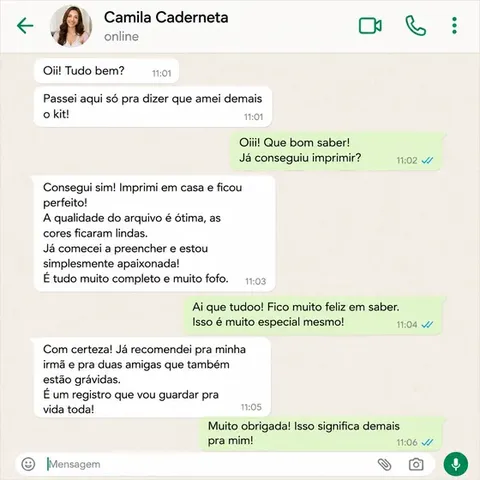
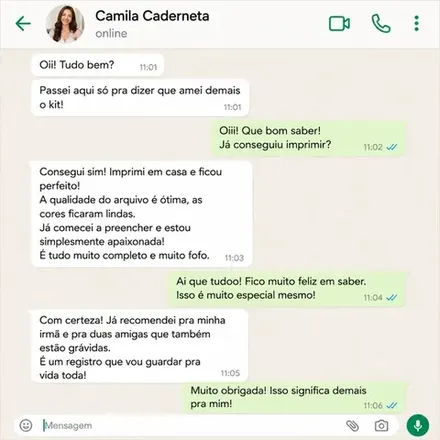
Ataca a causa raiz do CLS (0.185) e aperta mais as imagens
- CLS: a fonte usava display=swap desde a primeira versão -- eu só
  tinha corrigido o CARREGAMENTO (bloqueante -> assíncrono), nunca o
  swap em si, por isso o CLS ficou EXATAMENTE igual (0.185) nos dois
  relatórios. Troquei pra display=optional: se a fonte não estiver
  pronta bem rápido, o navegador não troca depois (elimina o reflow
  do H1/parágrafo do hero quando a Fraunces carrega).
- Aperta o restante das imagens sinalizadas (esteira 450x675->380x570,
  bônus 220x220->160x160, depoimentos 480x480->440x440), fechando os
  142 KiB que ainda sobravam.
- Corrige o badge do cronômetro na barra de urgência: o fundo branco
  translúcido clareava o terracota por baixo e derrubava o contraste
  pra 3.74:1 -- troquei pra um overlay escuro (7.6:1).

diff --git a/index.html b/index.html
@@ -8,9 +8,9 @@
 <meta name="description" content="Caderneta para imprimir e acompanhar a gravidez, o pré-natal e o pós-parto. 77 páginas, acesso imediato, com bônus grátis.">
 <link rel="preconnect" href="https://fonts.googleapis.com">
 <link rel="preconnect" href="https://fonts.gstatic.com" crossorigin>
-<link rel="preload" as="style" href="https://fonts.googleapis.com/css2?family=Fraunces:ital,opsz,wght@0,9..144,400;0,9..144,560;0,9..144,650;1,9..144,500&family=Inter:wght@400;500;600;700;800;900&display=swap">
-<link rel="stylesheet" href="https://fonts.googleapis.com/css2?family=Fraunces:ital,opsz,wght@0,9..144,400;0,9..144,560;0,9..144,650;1,9..144,500&family=Inter:wght@400;500;600;700;800;900&display=swap" media="print" onload="this.media='all'">
-<noscript><link rel="stylesheet" href="https://fonts.googleapis.com/css2?family=Fraunces:ital,opsz,wght@0,9..144,400;0,9..144,560;0,9..144,650;1,9..144,500&family=Inter:wght@400;500;600;700;800;900&display=swap"></noscript>
+<link rel="preload" as="style" href="https://fonts.googleapis.com/css2?family=Fraunces:ital,opsz,wght@0,9..144,400;0,9..144,560;0,9..144,650;1,9..144,500&family=Inter:wght@400;500;600;700;800;900&display=optional">
+<link rel="stylesheet" href="https://fonts.googleapis.com/css2?family=Fraunces:ital,opsz,wght@0,9..144,400;0,9..144,560;0,9..144,650;1,9..144,500&family=Inter:wght@400;500;600;700;800;900&display=optional" media="print" onload="this.media='all'">
+<noscript><link rel="stylesheet" href="https://fonts.googleapis.com/css2?family=Fraunces:ital,opsz,wght@0,9..144,400;0,9..144,560;0,9..144,650;1,9..144,500&family=Inter:wght@400;500;600;700;800;900&display=optional"></noscript>
 <style>
 
 /* ---------- Tokens ---------- */
@@ -103,7 +103,7 @@ button{font-family:inherit;cursor:pointer;}
 }
 .urgency .timer{
   font-variant-numeric:tabular-nums;
-  background:rgba(255,255,255,.18);
+  background:rgba(0,0,0,.22);
   padding:2px 8px;
   border-radius:6px;
   letter-spacing:.03em;
@@ -629,22 +629,22 @@ footer .credit{margin-top:14px;font-size:12px;color:var(--ink-soft);}
 
   <div class="esteira">
     <div class="esteira-track">
-      <img src="assets/preview/capa-thumb.webp" alt="Capa" width="450" height="675" loading="lazy">
-      <img src="assets/preview/calendario.webp" alt="Calendário da gestação" width="450" height="675" loading="lazy">
-      <img src="assets/preview/semana.webp" alt="Acompanhamento semana a semana" width="450" height="675" loading="lazy">
-      <img src="assets/preview/exames.webp" alt="Controle de exames" width="450" height="675" loading="lazy">
-      <img src="assets/preview/plano-parto.webp" alt="Plano de parto" width="450" height="675" loading="lazy">
-      <img src="assets/preview/mala-maternidade.webp" alt="Checklist da mala da maternidade" width="450" height="675" loading="lazy">
-      <img src="assets/preview/amamentacao.webp" alt="Controle de amamentação" width="450" height="675" loading="lazy">
-      <img src="assets/preview/cartinha.webp" alt="Mensagens para o bebê" width="450" height="675" loading="lazy">
-      <img src="assets/preview/capa-thumb.webp" alt="" aria-hidden="true" width="450" height="675" loading="lazy">
-      <img src="assets/preview/calendario.webp" alt="" aria-hidden="true" width="450" height="675" loading="lazy">
-      <img src="assets/preview/semana.webp" alt="" aria-hidden="true" width="450" height="675" loading="lazy">
-      <img src="assets/preview/exames.webp" alt="" aria-hidden="true" width="450" height="675" loading="lazy">
-      <img src="assets/preview/plano-parto.webp" alt="" aria-hidden="true" width="450" height="675" loading="lazy">
-      <img src="assets/preview/mala-maternidade.webp" alt="" aria-hidden="true" width="450" height="675" loading="lazy">
-      <img src="assets/preview/amamentacao.webp" alt="" aria-hidden="true" width="450" height="675" loading="lazy">
-      <img src="assets/preview/cartinha.webp" alt="" aria-hidden="true" width="450" height="675" loading="lazy">
+      <img src="assets/preview/capa-thumb.webp" alt="Capa" width="380" height="570" loading="lazy">
+      <img src="assets/preview/calendario.webp" alt="Calendário da gestação" width="380" height="570" loading="lazy">
+      <img src="assets/preview/semana.webp" alt="Acompanhamento semana a semana" width="380" height="570" loading="lazy">
+      <img src="assets/preview/exames.webp" alt="Controle de exames" width="380" height="570" loading="lazy">
+      <img src="assets/preview/plano-parto.webp" alt="Plano de parto" width="380" height="570" loading="lazy">
+      <img src="assets/preview/mala-maternidade.webp" alt="Checklist da mala da maternidade" width="380" height="570" loading="lazy">
+      <img src="assets/preview/amamentacao.webp" alt="Controle de amamentação" width="380" height="570" loading="lazy">
+      <img src="assets/preview/cartinha.webp" alt="Mensagens para o bebê" width="380" height="570" loading="lazy">
+      <img src="assets/preview/capa-thumb.webp" alt="" aria-hidden="true" width="380" height="570" loading="lazy">
+      <img src="assets/preview/calendario.webp" alt="" aria-hidden="true" width="380" height="570" loading="lazy">
+      <img src="assets/preview/semana.webp" alt="" aria-hidden="true" width="380" height="570" loading="lazy">
+      <img src="assets/preview/exames.webp" alt="" aria-hidden="true" width="380" height="570" loading="lazy">
+      <img src="assets/preview/plano-parto.webp" alt="" aria-hidden="true" width="380" height="570" loading="lazy">
+      <img src="assets/preview/mala-maternidade.webp" alt="" aria-hidden="true" width="380" height="570" loading="lazy">
+      <img src="assets/preview/amamentacao.webp" alt="" aria-hidden="true" width="380" height="570" loading="lazy">
+      <img src="assets/preview/cartinha.webp" alt="" aria-hidden="true" width="380" height="570" loading="lazy">
     </div>
   </div>
 
@@ -685,7 +685,7 @@ footer .credit{margin-top:14px;font-size:12px;color:var(--ink-soft);}
     </div>
 
     <div class="bonus-card reveal">
-      <img src="assets/bonus/enxoval-capa.webp" alt="Kit Completo de Enxoval do Bebê" width="220" height="220" loading="lazy">
+      <img src="assets/bonus/enxoval-capa.webp" alt="Kit Completo de Enxoval do Bebê" width="160" height="160" loading="lazy">
       <div class="txt">
         <span class="label">Bônus 01 · grátis</span>
         <strong>Kit Completo de Enxoval do Bebê (40 páginas)</strong>
@@ -693,7 +693,7 @@ footer .credit{margin-top:14px;font-size:12px;color:var(--ink-soft);}
       <div class="price"><span class="was">R$37</span><span class="now">grátis</span></div>
     </div>
     <div class="bonus-card reveal">
-      <img src="assets/bonus/diario-capa.webp" alt="Diário de Memórias do Bebê" width="220" height="220" loading="lazy">
+      <img src="assets/bonus/diario-capa.webp" alt="Diário de Memórias do Bebê" width="160" height="160" loading="lazy">
       <div class="txt">
         <span class="label">Bônus 02 · grátis</span>
         <strong>Diário de Memórias do Bebê (50 páginas)</strong>
@@ -719,43 +719,43 @@ footer .credit{margin-top:14px;font-size:12px;color:var(--ink-soft);}
   <div class="testi-esteira">
     <div class="testi-esteira-track">
       <div class="testi-card">
-        <img src="assets/testimonials/whatsapp-julia.webp" data-full="assets/testimonials/whatsapp-julia-full.webp" width="480" height="480" loading="lazy" alt="Print de conversa no WhatsApp: Julia contando que imprimiu as três cadernetas, a impressão ficou perfeita e o material maravilhoso, e que se emocionou ao começar a preencher a de gestante.">
+        <img src="assets/testimonials/whatsapp-julia.webp" data-full="assets/testimonials/whatsapp-julia-full.webp" width="440" height="440" loading="lazy" alt="Print de conversa no WhatsApp: Julia contando que imprimiu as três cadernetas, a impressão ficou perfeita e o material maravilhoso, e que se emocionou ao começar a preencher a de gestante.">
         <p class="cap"><strong>Julia</strong> · via WhatsApp</p>
       </div>
       <div class="testi-card">
-        <img src="assets/testimonials/whatsapp-maria.webp" data-full="assets/testimonials/whatsapp-maria-full.webp" width="480" height="480" loading="lazy" alt="Print de conversa no WhatsApp: Maria contando que imprimiu tudo em casa, ficou apaixonada pela Caderneta de Gestante e que o kit de Enxoval está ajudando a organizar as coisas.">
+        <img src="assets/testimonials/whatsapp-maria.webp" data-full="assets/testimonials/whatsapp-maria-full.webp" width="440" height="440" loading="lazy" alt="Print de conversa no WhatsApp: Maria contando que imprimiu tudo em casa, ficou apaixonada pela Caderneta de Gestante e que o kit de Enxoval está ajudando a organizar as coisas.">
         <p class="cap"><strong>Maria</strong> · via WhatsApp</p>
       </div>
       <div class="testi-card">
-        <img src="assets/testimonials/whatsapp-cliente.webp" data-full="assets/testimonials/whatsapp-cliente-full.webp" width="480" height="480" loading="lazy" alt="Print de conversa no WhatsApp: cliente contando que já mandou imprimir, amou que veio tudo prontinho e vai guardar o material para mostrar ao filho quando crescer.">
+        <img src="assets/testimonials/whatsapp-cliente.webp" data-full="assets/testimonials/whatsapp-cliente-full.webp" width="440" height="440" loading="lazy" alt="Print de conversa no WhatsApp: cliente contando que já mandou imprimir, amou que veio tudo prontinho e vai guardar o material para mostrar ao filho quando crescer.">
         <p class="cap"><strong>Cliente verificada</strong> · via WhatsApp</p>
       </div>
       <div class="testi-card">
-        <img src="assets/testimonials/whatsapp-camila.webp" data-full="assets/testimonials/whatsapp-camila-full.webp" width="480" height="480" loading="lazy" alt="Print de conversa no WhatsApp: Camila contando que imprimiu em casa, a qualidade do arquivo é ótima, as cores ficaram lindas e que recomendou pra irmã e duas amigas grávidas.">
+        <img src="assets/testimonials/whatsapp-camila.webp" data-full="assets/testimonials/whatsapp-camila-full.webp" width="440" height="440" loading="lazy" alt="Print de conversa no WhatsApp: Camila contando que imprimiu em casa, a qualidade do arquivo é ótima, as cores ficaram lindas e que recomendou pra irmã e duas amigas grávidas.">
         <p class="cap"><strong>Camila</strong> · via WhatsApp</p>
       </div>
       <div class="testi-card">
-        <img src="assets/testimonials/whatsapp-ana.webp" data-full="assets/testimonials/whatsapp-ana-full.webp" width="480" height="480" loading="lazy" alt="Print de conversa no WhatsApp: Ana contando que baixou e imprimiu em casa, ficou perfeito, a qualidade é ótima e o conteúdo muito completo.">
+        <img src="assets/testimonials/whatsapp-ana.webp" data-full="assets/testimonials/whatsapp-ana-full.webp" width="440" height="440" loading="lazy" alt="Print de conversa no WhatsApp: Ana contando que baixou e imprimiu em casa, ficou perfeito, a qualidade é ótima e o conteúdo muito completo.">
         <p class="cap"><strong>Ana</strong> · via WhatsApp</p>
       </div>
       <div class="testi-card" aria-hidden="true">
-        <img src="assets/testimonials/whatsapp-julia.webp" data-full="assets/testimonials/whatsapp-julia-full.webp" width="480" height="480" loading="lazy" alt="">
+        <img src="assets/testimonials/whatsapp-julia.webp" data-full="assets/testimonials/whatsapp-julia-full.webp" width="440" height="440" loading="lazy" alt="">
         <p class="cap"><strong>Julia</strong> · via WhatsApp</p>
       </div>
       <div class="testi-card" aria-hidden="true">
-        <img src="assets/testimonials/whatsapp-maria.webp" data-full="assets/testimonials/whatsapp-maria-full.webp" width="480" height="480" loading="lazy" alt="">
+        <img src="assets/testimonials/whatsapp-maria.webp" data-full="assets/testimonials/whatsapp-maria-full.webp" width="440" height="440" loading="lazy" alt="">
         <p class="cap"><strong>Maria</strong> · via WhatsApp</p>
       </div>
       <div class="testi-card" aria-hidden="true">
-        <img src="assets/testimonials/whatsapp-cliente.webp" data-full="assets/testimonials/whatsapp-cliente-full.webp" width="480" height="480" loading="lazy" alt="">
+        <img src="assets/testimonials/whatsapp-cliente.webp" data-full="assets/testimonials/whatsapp-cliente-full.webp" width="440" height="440" loading="lazy" alt="">
         <p class="cap"><strong>Cliente verificada</strong> · via WhatsApp</p>
       </div>
       <div class="testi-card" aria-hidden="true">
-        <img src="assets/testimonials/whatsapp-camila.webp" data-full="assets/testimonials/whatsapp-camila-full.webp" width="480" height="480" loading="lazy" alt="">
+        <img src="assets/testimonials/whatsapp-camila.webp" data-full="assets/testimonials/whatsapp-camila-full.webp" width="440" height="440" loading="lazy" alt="">
         <p class="cap"><strong>Camila</strong> · via WhatsApp</p>
       </div>
       <div class="testi-card" aria-hidden="true">
-        <img src="assets/testimonials/whatsapp-ana.webp" data-full="assets/testimonials/whatsapp-ana-full.webp" width="480" height="480" loading="lazy" alt="">
+        <img src="assets/testimonials/whatsapp-ana.webp" data-full="assets/testimonials/whatsapp-ana-full.webp" width="440" height="440" loading="lazy" alt="">
         <p class="cap"><strong>Ana</strong> · via WhatsApp</p>
       </div>
     </div>
